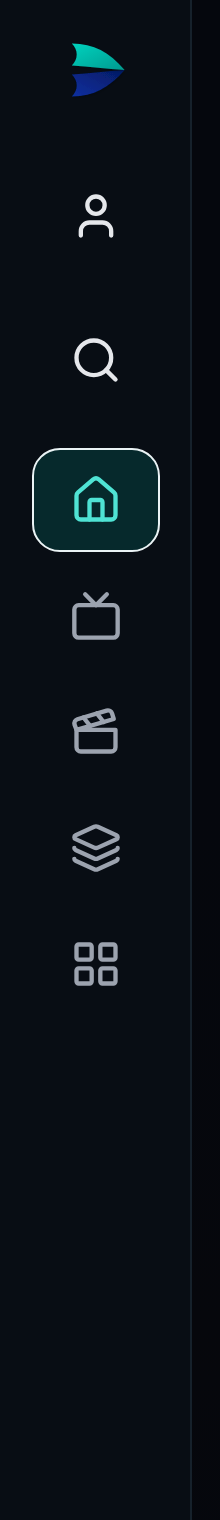
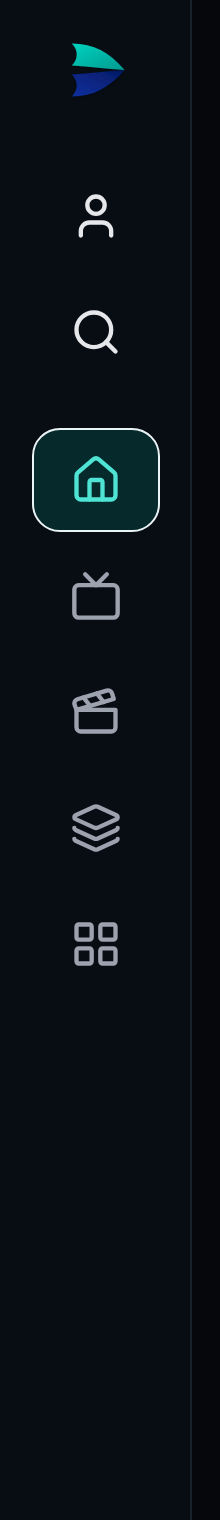
fix(ui): ritmo vertical uniforme en el raíl
Las acciones iban a paso 70 px (52 de alto + 12 de gap del contenedor + 6 de
margen) mientras las secciones iban a 58. Ahora comparten paso: 58 entre
acciones, 74 antes de Inicio por la separación de grupo y 58 entre secciones.

Verificado en las 19 comprobaciones del cajón y en el arranque.

Changed region(s): [[0.1364, 0.2783, 0.7364, 0.4947], [0.3273, 0.5257, 0.5455, 0.6493], [0.3273, 0.1855, 0.5182, 0.2474]]

diff --git a/webos/fidelity/css/app.css b/webos/fidelity/css/app.css
@@ -2311,3 +2311,21 @@ body {
 .home-tabs .home-notify .notify-item.is-focused .notify-label {
   color: #05070d;
 }
+
+/* Ritmo vertical: las acciones siguen el mismo paso que las secciones y el
+   grupo se separa 16 px del contenido, para leerse como cabecera. */
+.home-tabs .home-notify,
+.home-tabs.is-open .home-notify {
+  margin-bottom: 16px;
+  gap: 0;
+}
+
+.home-tabs .home-notify .notify-item {
+  margin: 0 0 6px 0;
+}
+
+/* Misma altura que las secciones: las acciones venían a 64 px y rompían el paso. */
+.home-tabs .home-notify .notify-item {
+  height: 52px;
+  min-height: 52px;
+}
